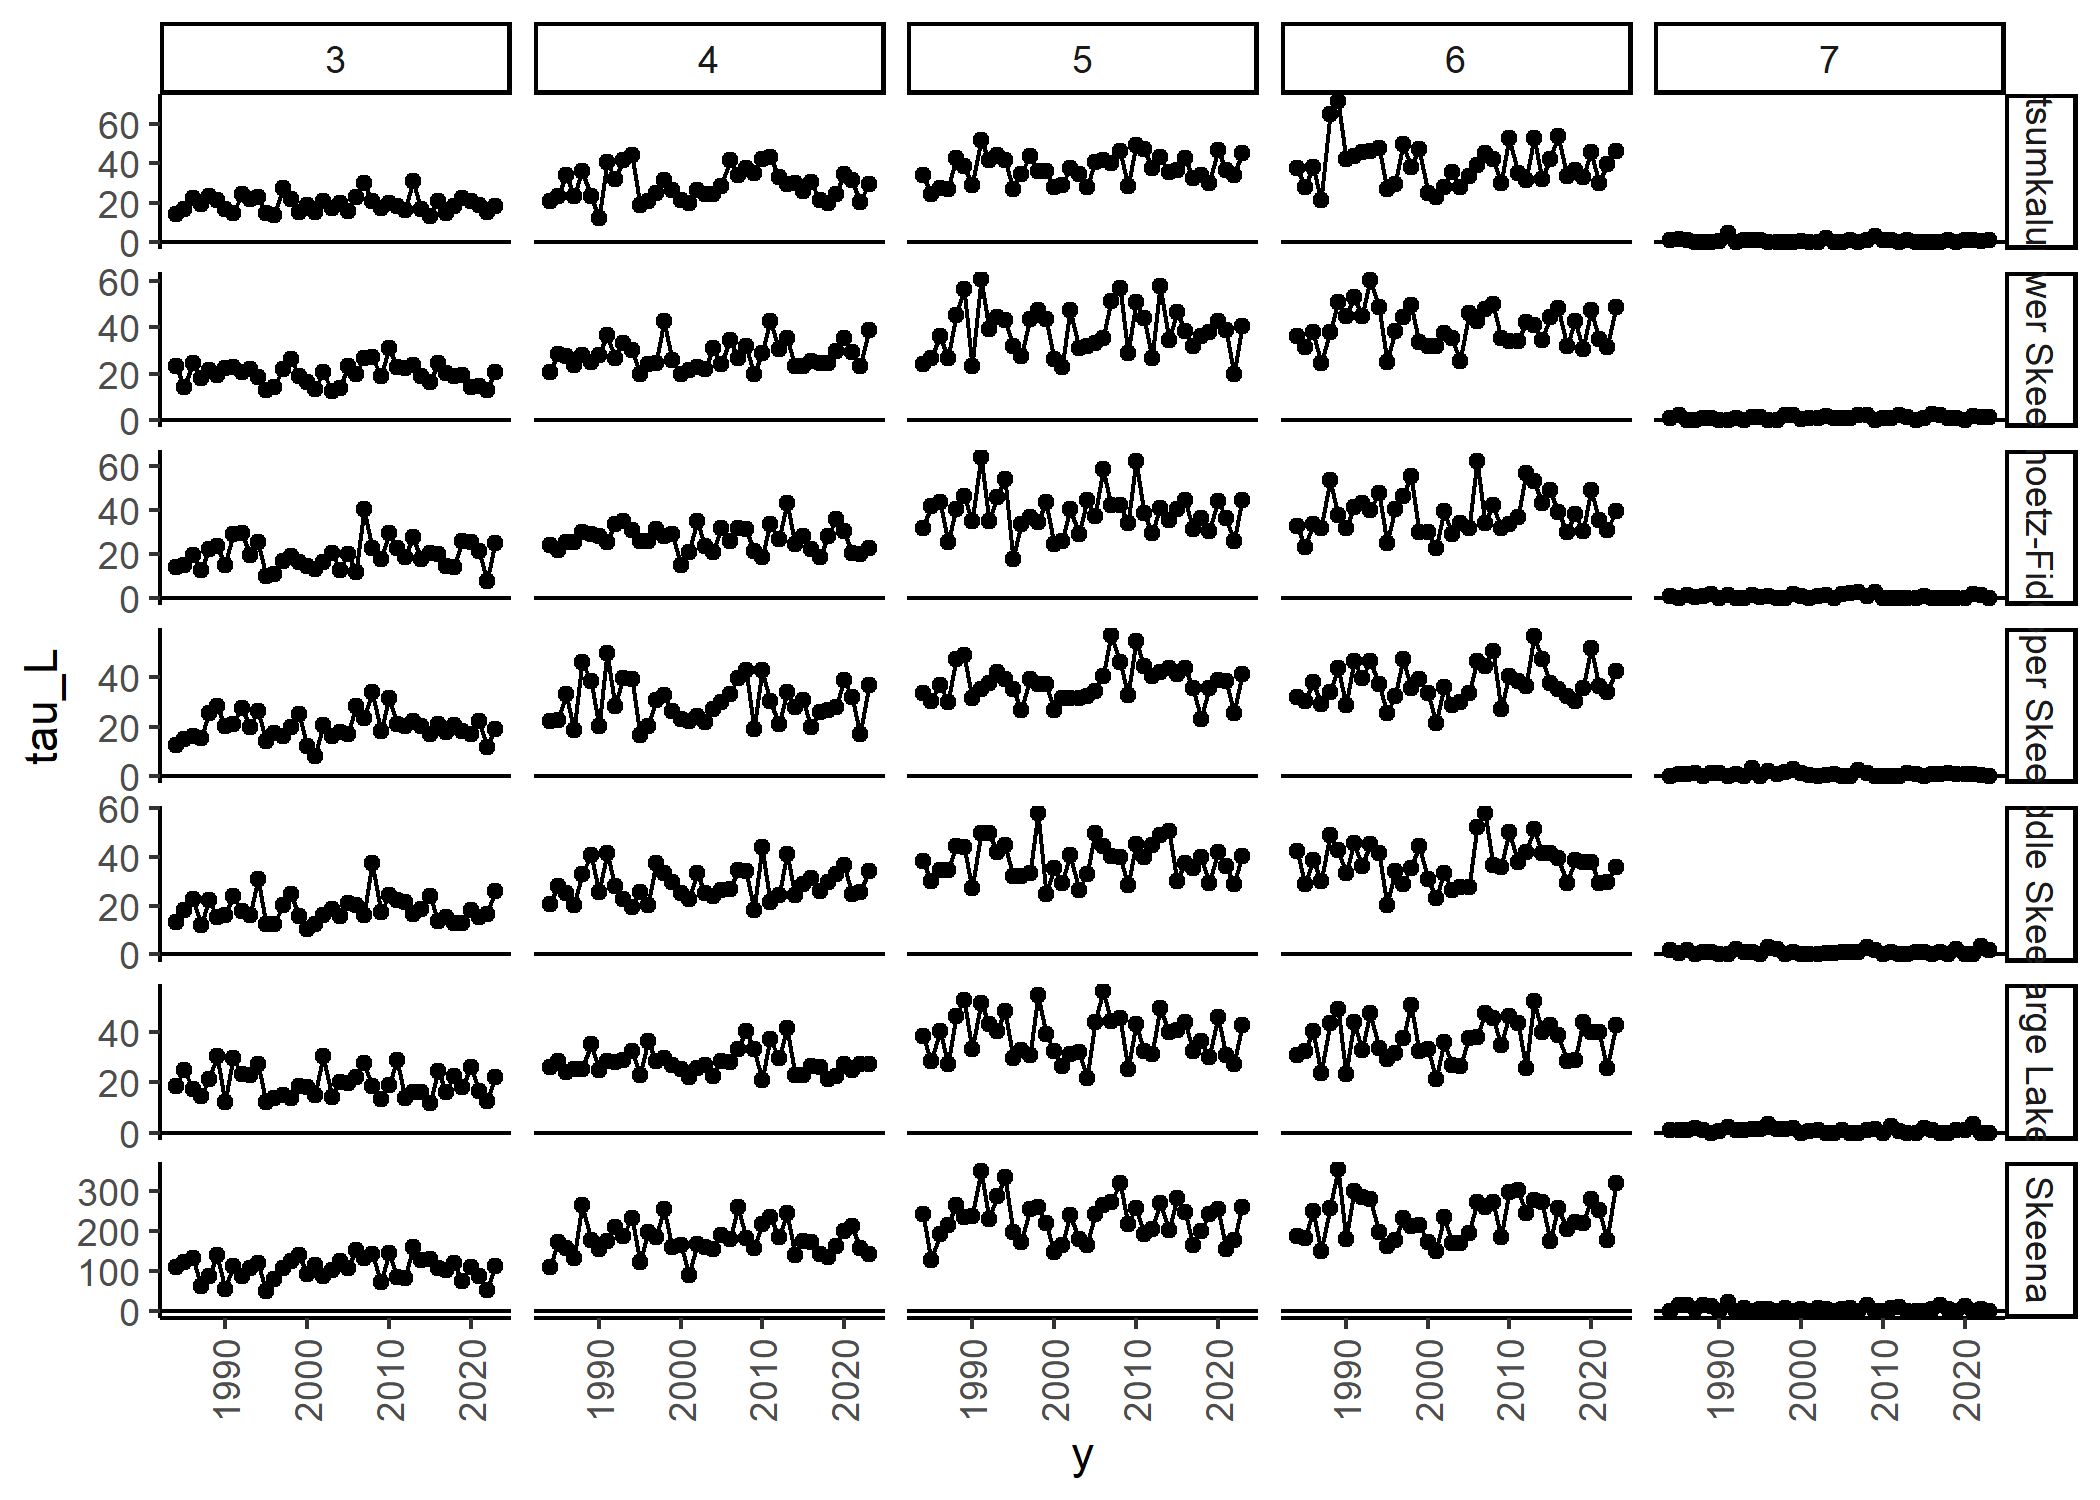
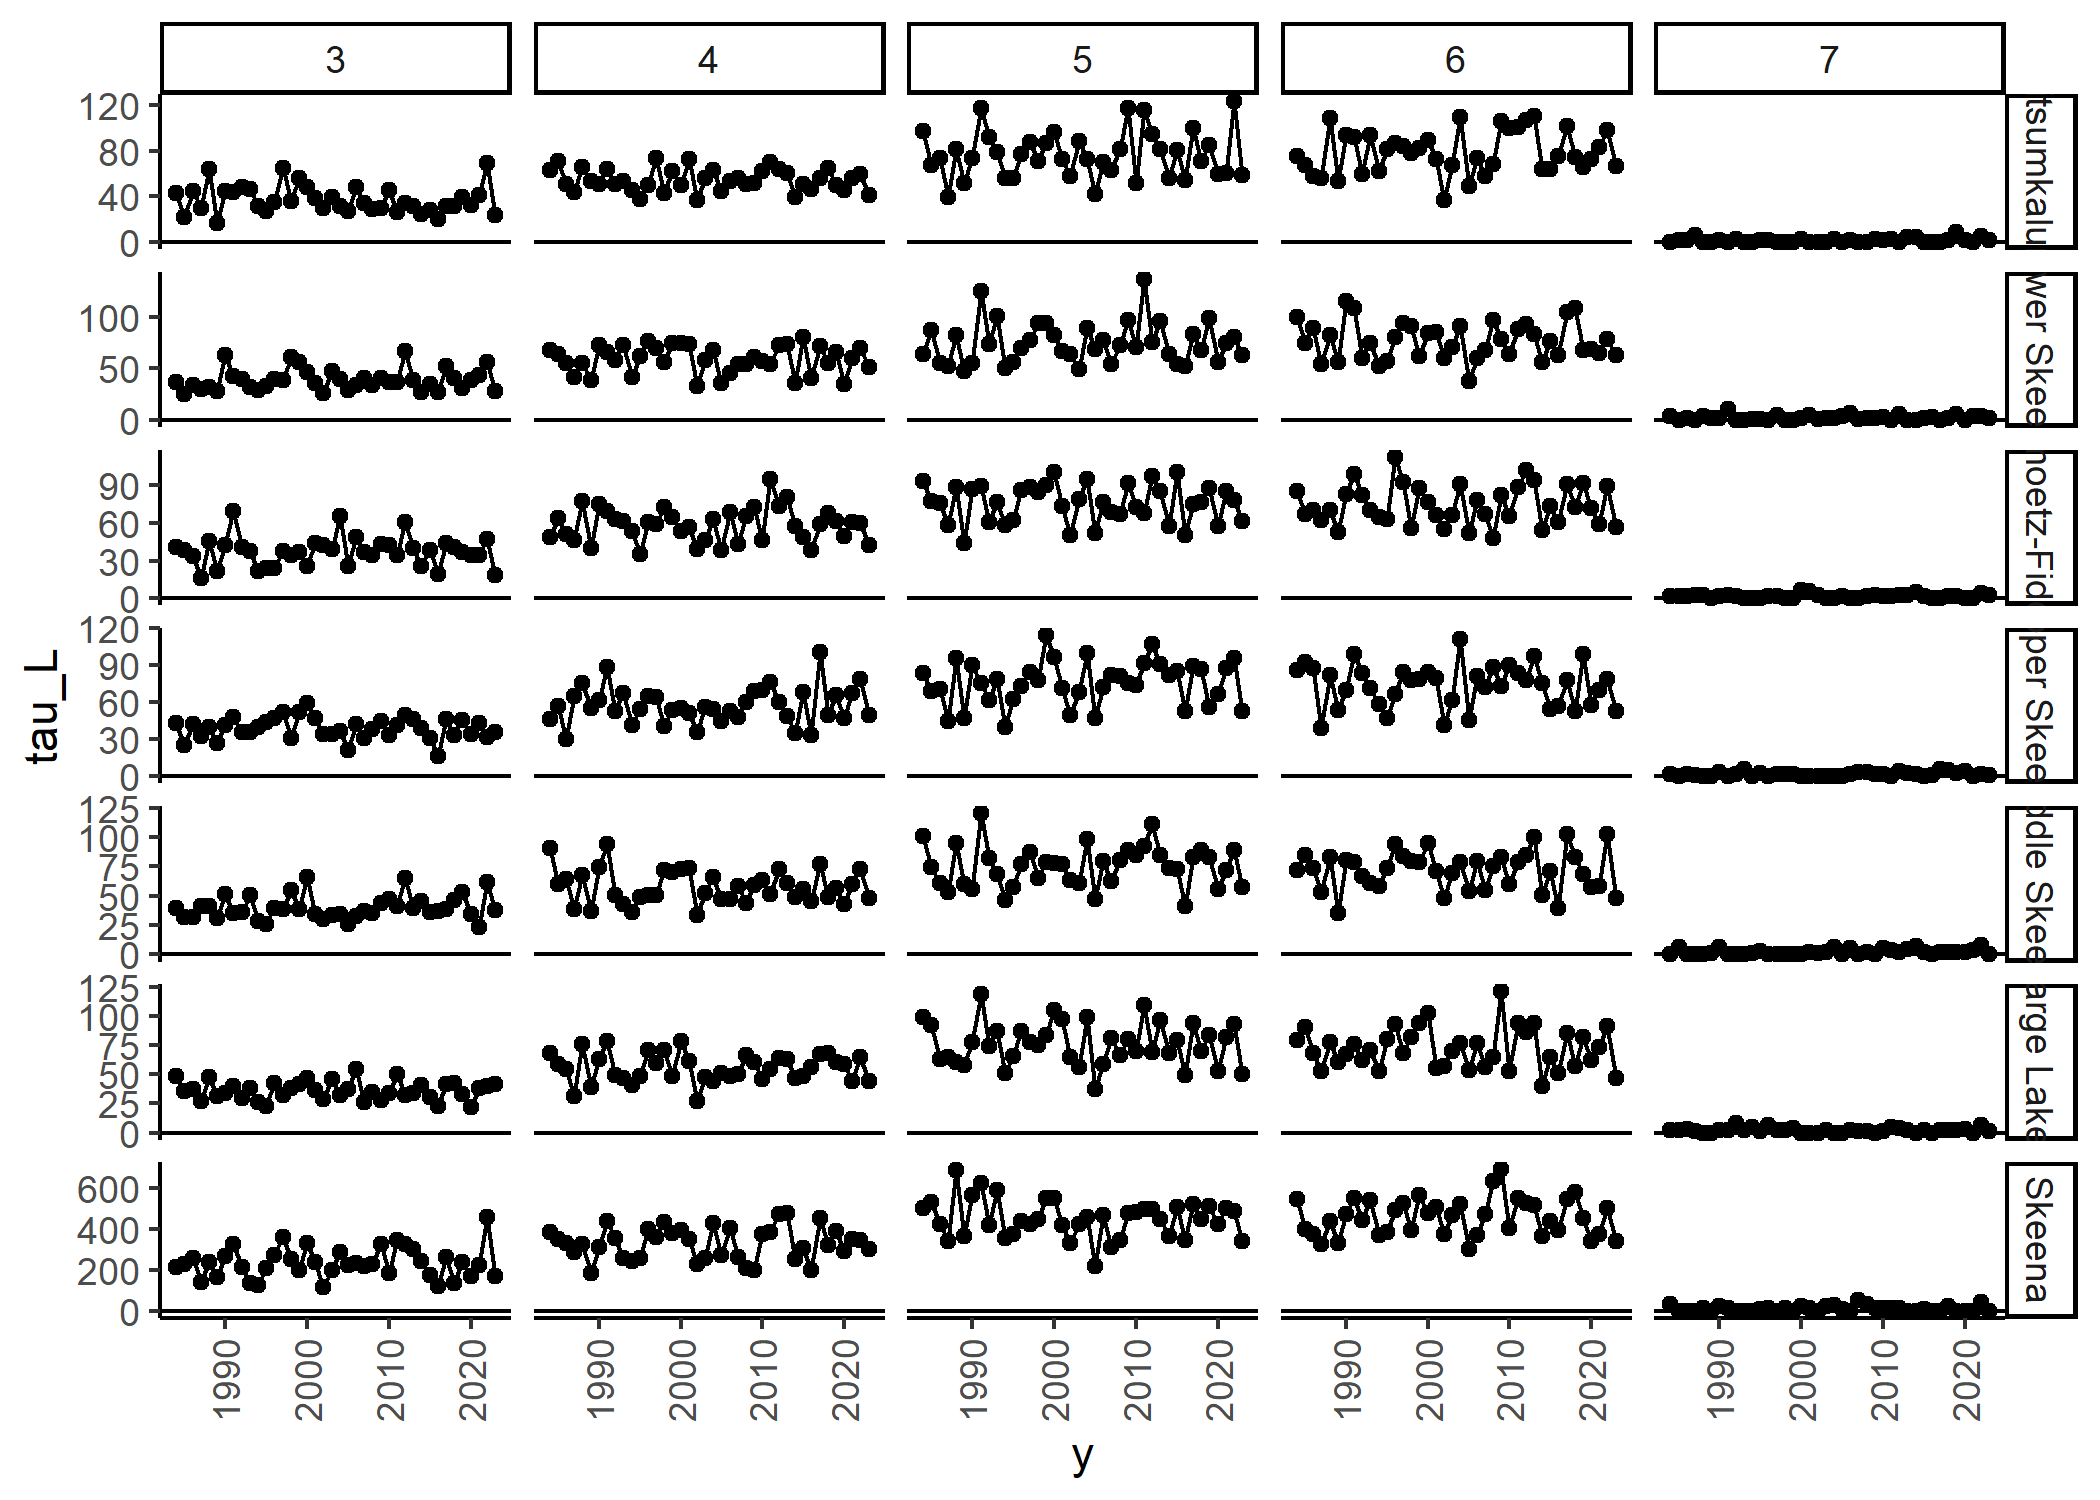
Update readme with tau_U example

diff --git a/README.md b/README.md
@@ -92,8 +92,8 @@ escapement for each population, plot with returns to Terrace (note, will
 only be different for Skeena aggregate and the three upper populations)
 
 ``` r
-tau_F_U <- sample(5000:10000, size=length(k$y), replace=TRUE)
-E <- get_E(K = k$kitsumkalum_escapement, X = X$X, tau_F_U = tau_F_U,
+Tau_U <- sample(5000:10000, size=length(k$y), replace=TRUE)
+E <- get_E(K = k$kitsumkalum_escapement, X = X$X, Tau_U = Tau_U,
      known_population = "Kitsumkalum",
      aggregate_population = "Skeena",
      lower_populations = c("Lower Skeena", "Zymoetz-Fiddler"),
@@ -206,26 +206,25 @@ Get age proportions by age, population and year (fake data).
   n <- array( d,  dim = c(n_populations, n_years, n_ages), dimnames = list(i = populations, y = years, a = ages))
   omega <- get_omega(n)
 do <- omega$df
-do$y <- as.integer(as.character(do$y))
 
 ggplot( do, aes(y = omega, x = y, group = i)) +
   geom_point() + 
   geom_line() + 
   geom_hline(aes(yintercept=0)) + 
-  facet_grid( i ~ a) + 
+  facet_grid( i ~ a ) + 
   theme_classic() +
   theme(axis.text.x = element_text(angle=90, vjust=0.5))
 ```
 
 <img src="man/figures/README-example_omega-1.png" width="100%" />
 
-Estimate terminal total mortalities by population, year, and age.
+Estimate terminal total mortalities in the lower Skeena by population,
+year, and age.
 
 ``` r
-Tau_L <- sample(500:1000, size = length(k$year))
+Tau_L <- sample(1000:2000, size = length(k$year))
 tau_L <- get_tau_L(Tau_L = Tau_L, omega = omega$omega, P_tilde = P_tilde, aggregate_population = "Skeena")
 dtauL <- tau_L$df 
-dtauL$y <- as.integer(as.character(dtauL$y))
 
 ggplot( dtauL, aes(y =tau_L, x = y, group = i)) +
   geom_point() + 
@@ -237,3 +236,25 @@ ggplot( dtauL, aes(y =tau_L, x = y, group = i)) +
 ```
 
 <img src="man/figures/README-example_tau_L-1.png" width="100%" />
+
+Estimate terminal total mortalities in the upper Skeena by population,
+year, and age. Should be 0 for Kitsumkalum, Lower Skeena, and
+Zymoetz-Fiddler.
+
+``` r
+tau_U <- get_tau_U(Tau_U = Tau_U, omega = omega$omega, P_tilde = P_tilde, aggregate_population = "Skeena",
+                   upper_populations = c("Middle Skeena", "Large Lakes", "Upper Skeena"),
+    lower_populations = c("Lower Skeena", "Kitsumkalum", "Zymoetz-Fiddler") )
+
+dtauU <- tau_U$df 
+
+ggplot( dtauU, aes(y =tau_U, x = y, group = i)) +
+  geom_point() + 
+  geom_line() + 
+  geom_hline(aes(yintercept=0)) + 
+  facet_grid( i ~ a) + 
+  theme_classic() +
+  theme(axis.text.x = element_text(angle=90, vjust=0.5))
+```
+
+<img src="man/figures/README-example_tau_U-1.png" width="100%" />
